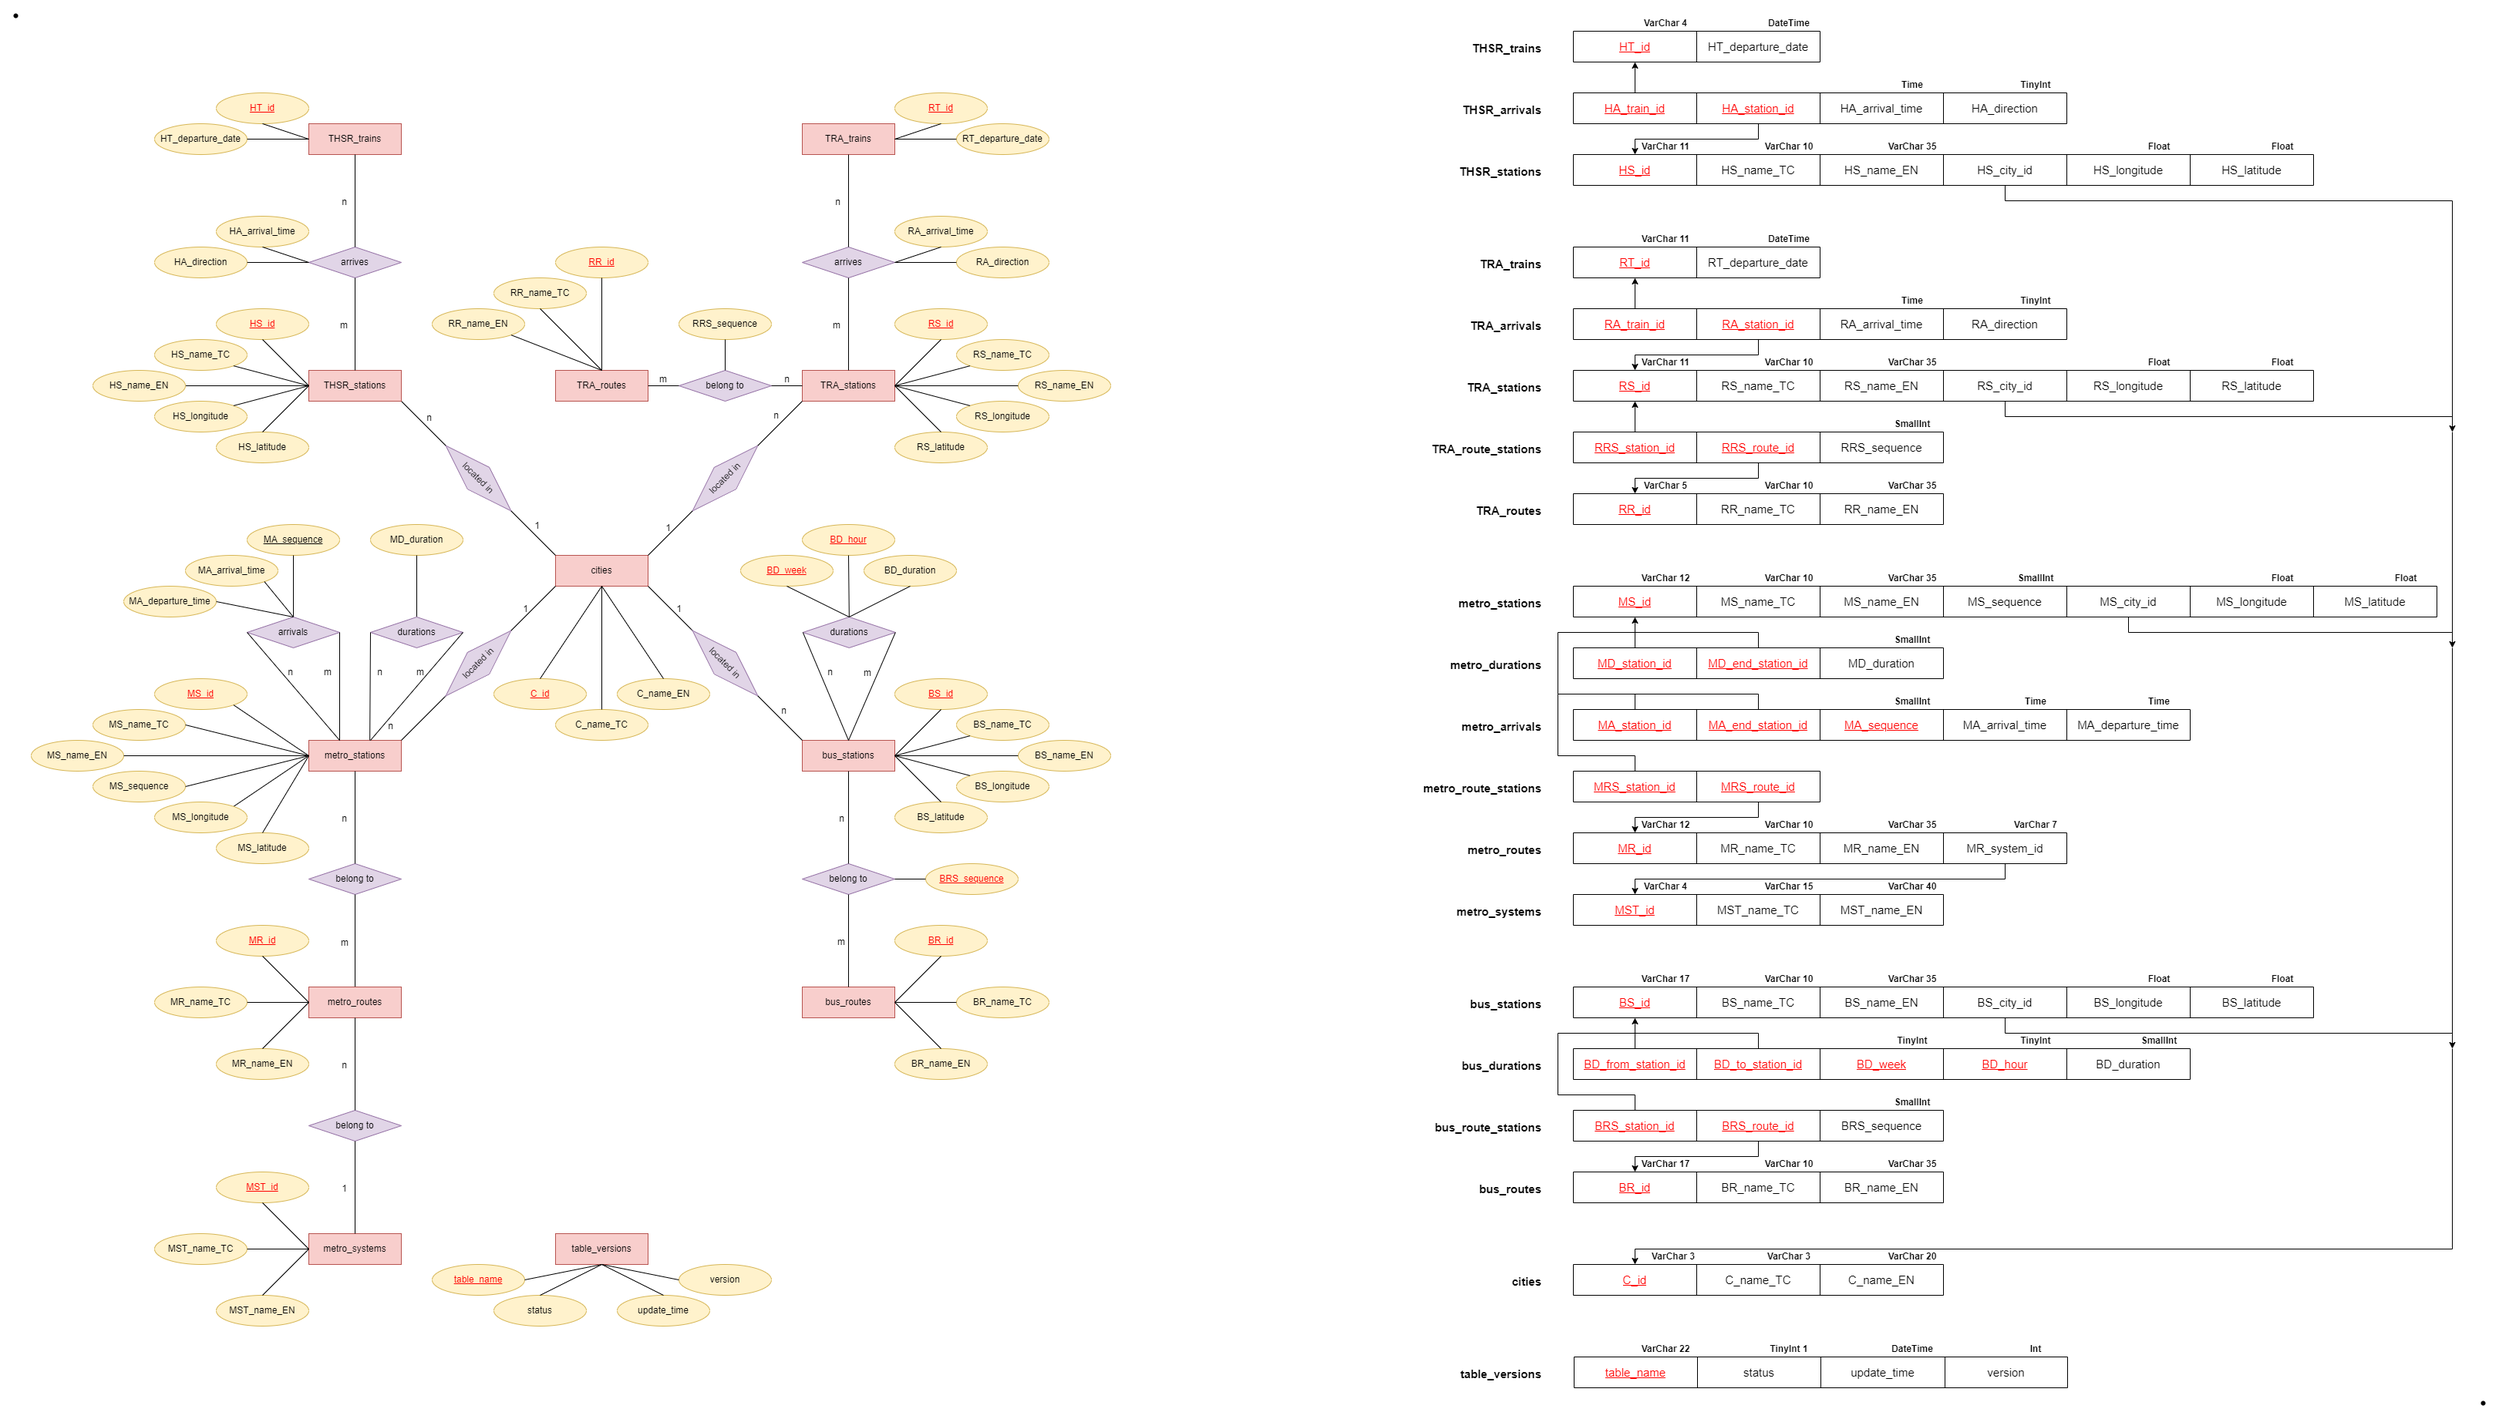
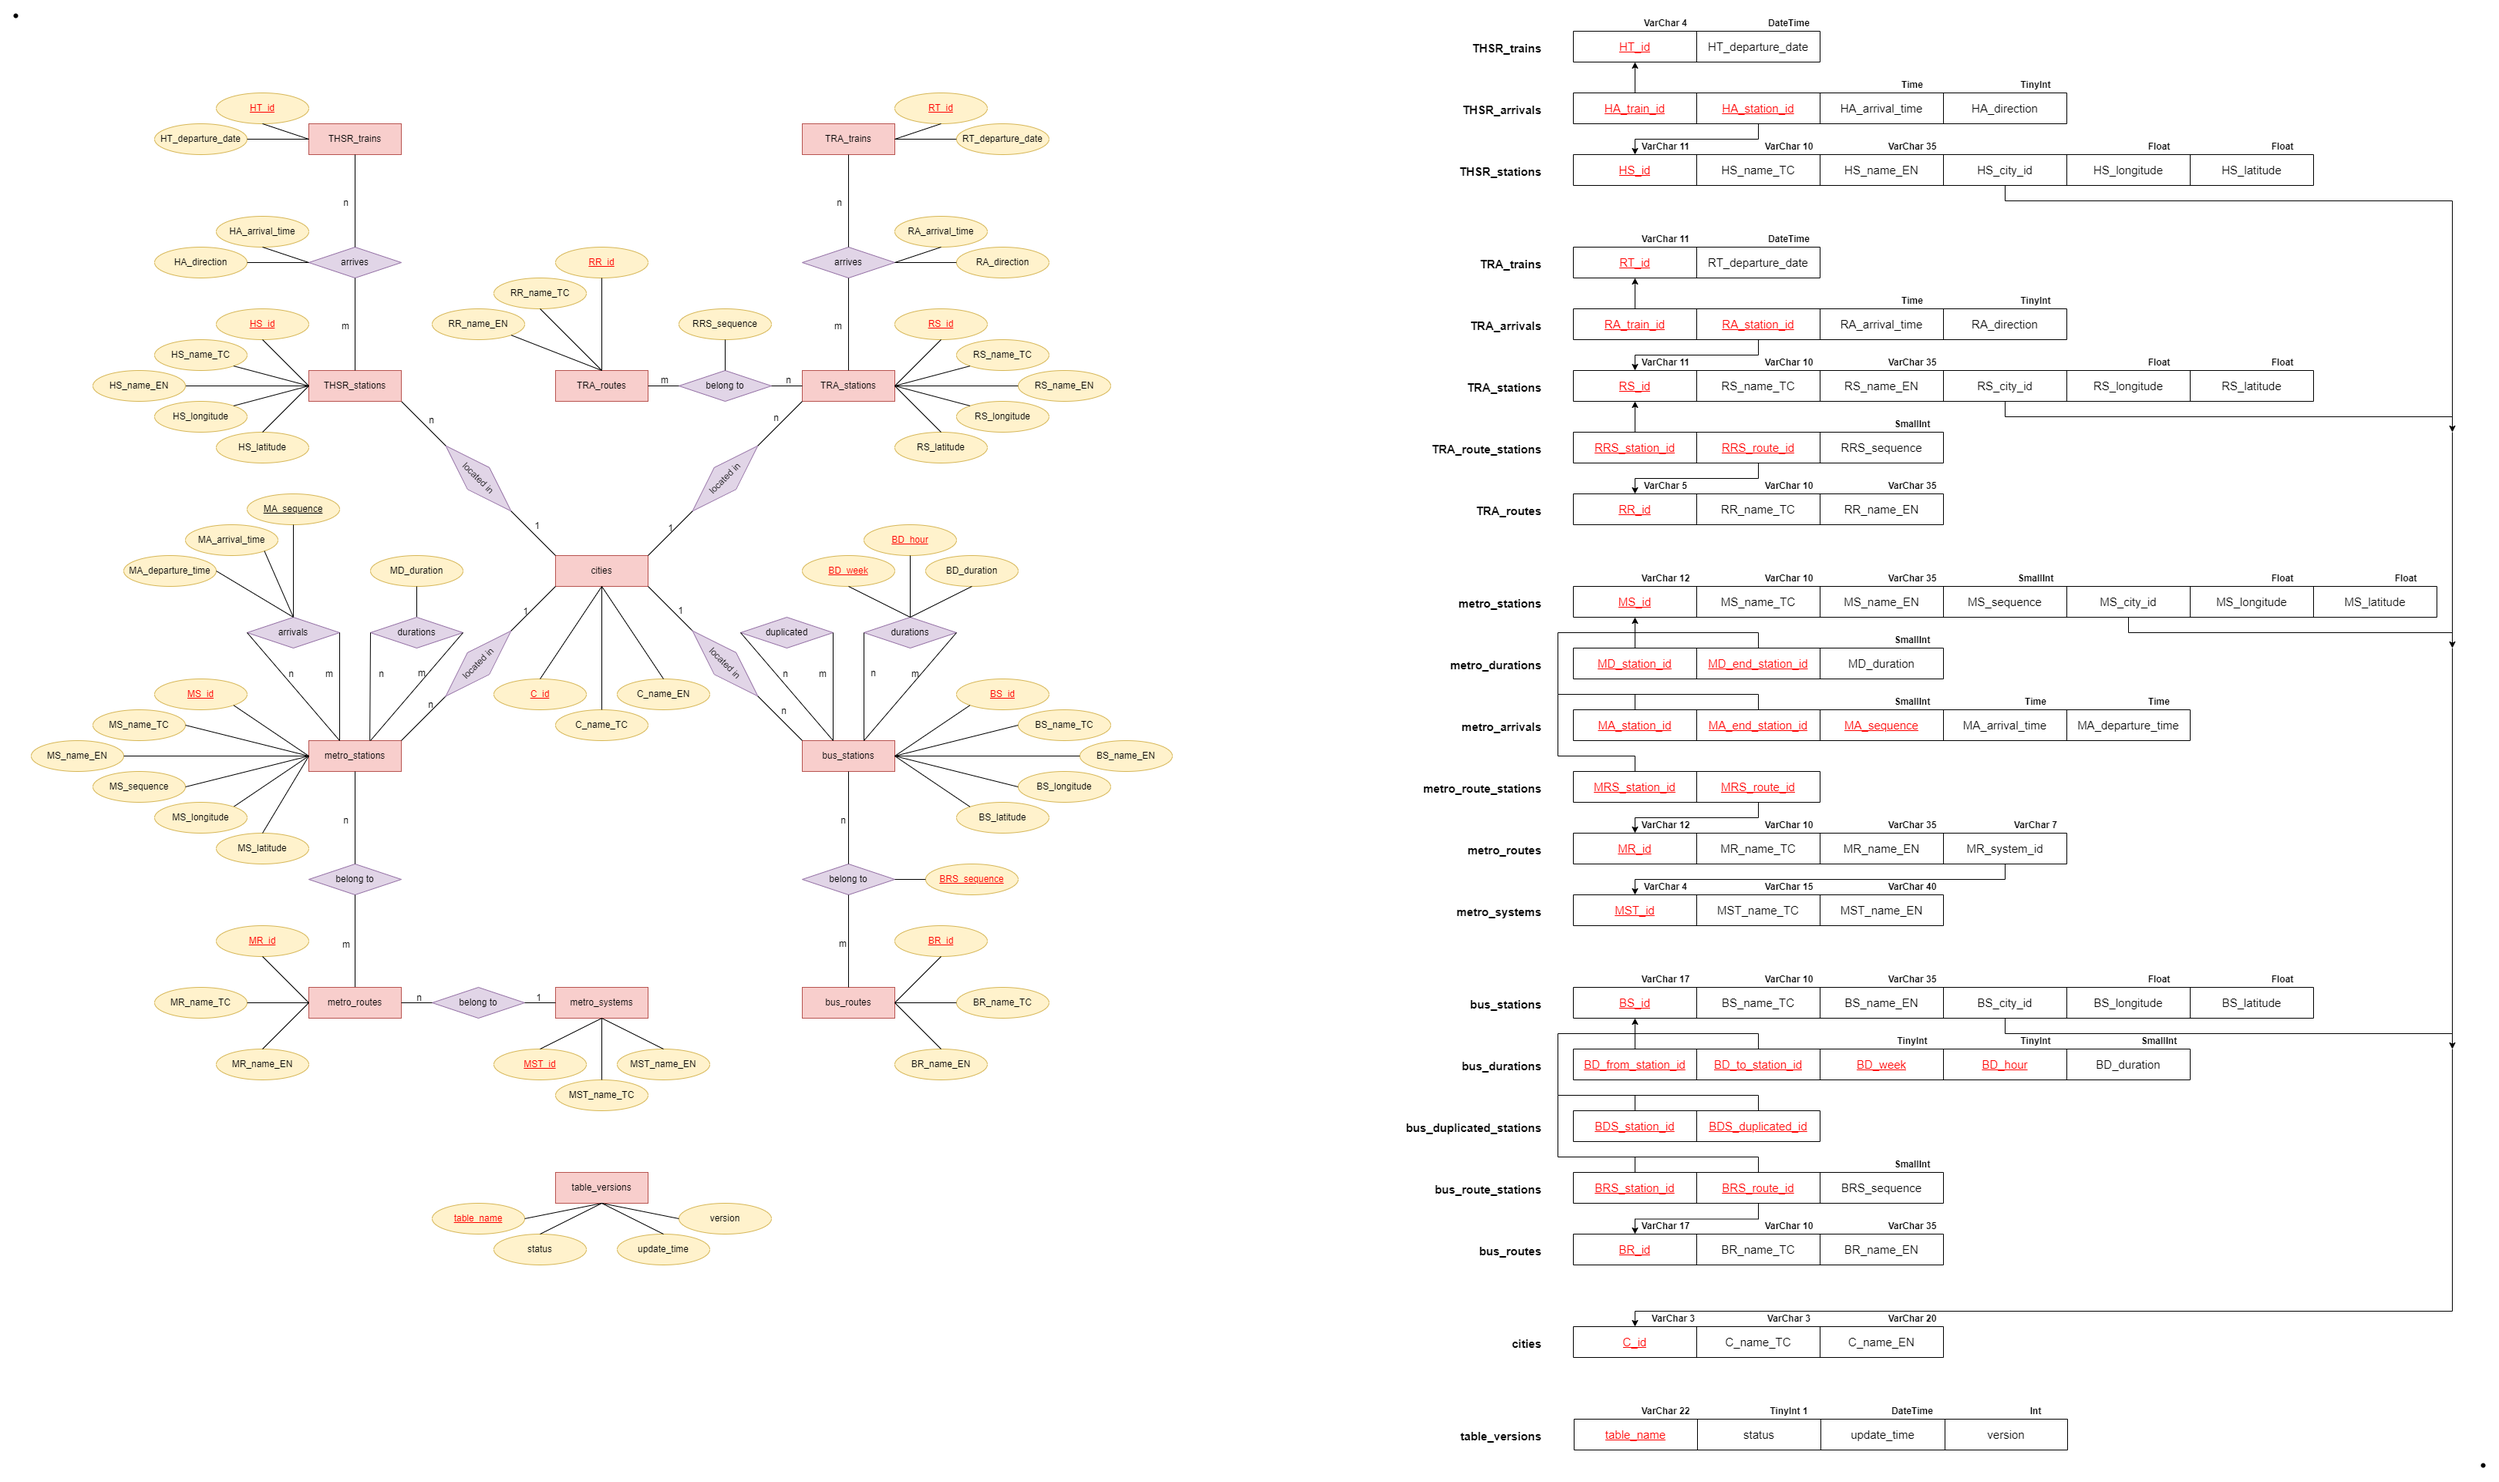
新增公車重複車站資料表。

diff --git a/app/Database/Migrations/2022-09-30-135145_BusDuplicatedStations.php b/app/Database/Migrations/2022-09-30-135145_BusDuplicatedStations.php
@@ -1,0 +1,34 @@
+<?php
+
+namespace App\Database\Migrations;
+
+use CodeIgniter\Database\Migration;
+
+class BusDuplicatedStations extends Migration
+{
+    /**
+     * 新增公車重複車站
+     */
+    public function up()
+    {
+        $fields = [
+            "BDS_station_id" => [
+                "type" => "VARCHAR",
+                "constraint" => 17
+            ],
+            "BDS_duplicated_id" => [
+                "type" => "VARCHAR",
+                "constraint" => 17
+            ]
+        ];
+        $this->forge->addField($fields);
+        $this->forge->addPrimaryKey(["BDS_station_id", "BDS_duplicated_id"]);
+        $this->forge->addForeignKey("BDS_station_id", "bus_stations", "BS_id", "CASCADE", "CASCADE");
+        $this->forge->createTable("bus_duplicated_stations", true);
+    }
+
+    public function down()
+    {
+        $this->forge->dropTable("bus_duplicated_stations", true, true);
+    }
+}
